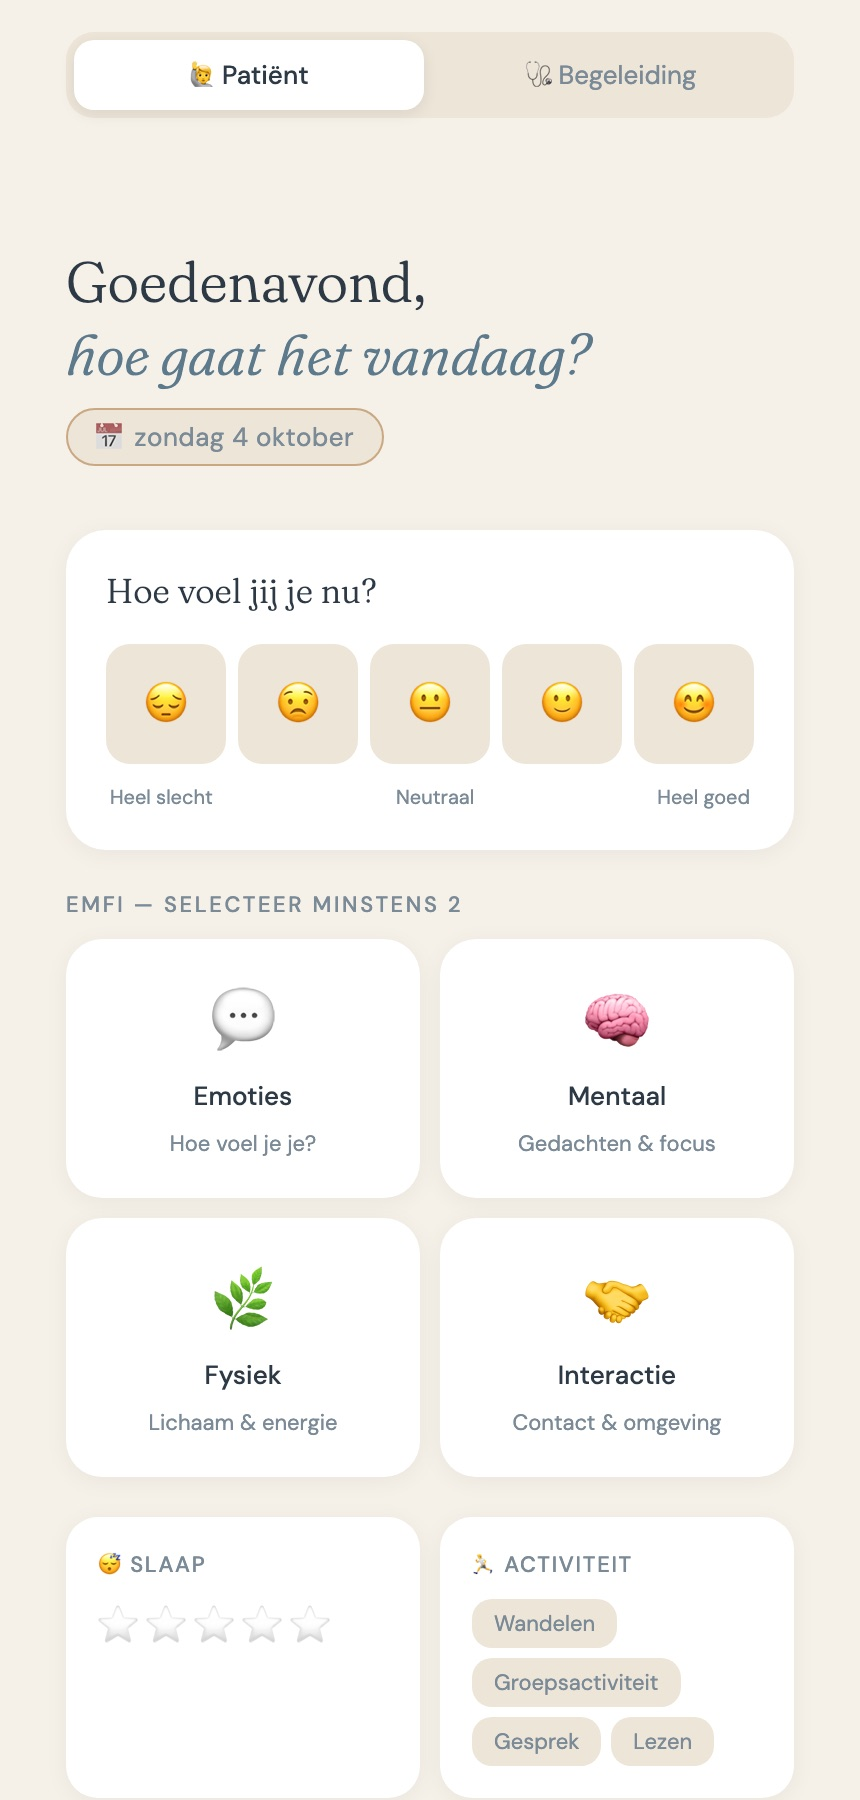
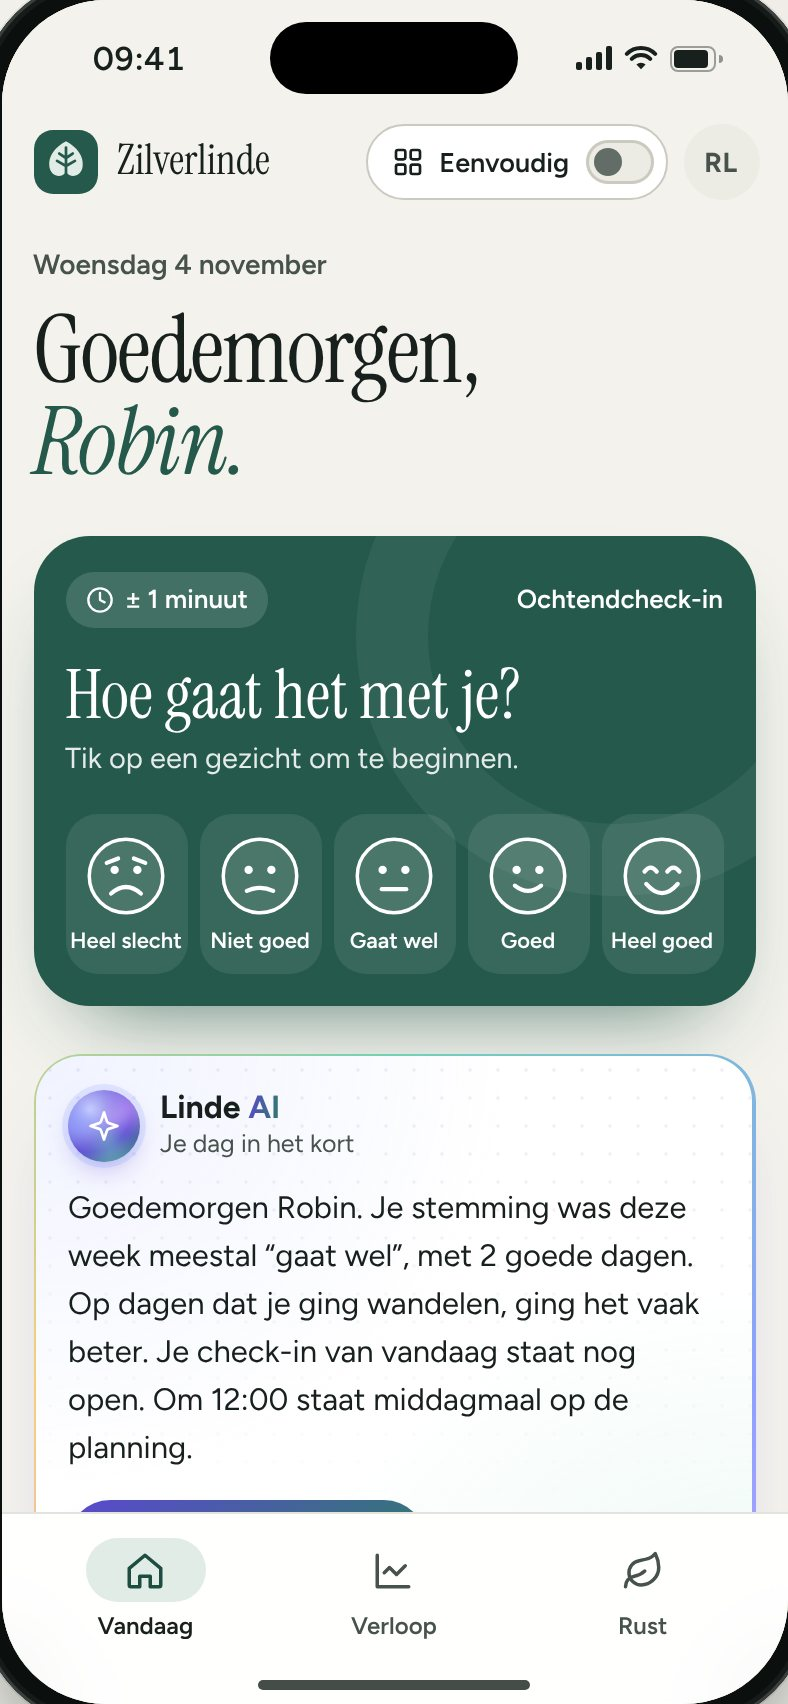
Restyle the EMFI project card after the updated app
The card still showed the old beige app with emoji tiles. It now follows
the new Zilverlinde check-in design: a light sage background with the
app's green and pink glows, the check-in card's ring behind the phone and
a soft Linde AI glow. The number badge is a ring in the four EMFI colours,
the tags use the EMFI tones, the title gets the app's italic green accent
and the CTA turns brand green.

The screenshot is replaced with the new home screen, taken from the app's
own iPhone simulation, and the phone frame copies that device. The old
chips make way for a Linde AI chip and the simple-mode switch, and the
description now covers the four areas and the staff workspace.

Claude-Session: https://claude.ai/code/session_01KvzGXM1zBqA1VLqKrbuMFx

diff --git a/assets/css/style.css b/assets/css/style.css
@@ -1638,7 +1638,7 @@ html:not(.theme-sync) [data-theme="light"] .card:not(.card--link),
   pointer-events: none;
 }
 .project--thesis { --pc-bg: #1D1828; --pc-fg: #F3EDE4; --pc-muted: #B3A9C2; --pc-line: rgba(243, 237, 228, 0.16); }
-.project--emfi   { --pc-bg: #E5D7C1; --pc-fg: #231D18; --pc-muted: #62554A; --pc-line: rgba(35, 29, 24, 0.16); }
+.project--emfi   { --pc-bg: #EBEEE7; --pc-fg: #17201C; --pc-muted: #47524C; --pc-line: #CBCAC0; }
 .project--gids   { --pc-bg: #FBF8F4; --pc-fg: #17162A; --pc-muted: #46435A; --pc-line: #DAD1C3; }
 
 .project-copy {
@@ -1775,45 +1775,189 @@ html:not(.theme-sync) [data-theme="light"] .card:not(.card--link),
   color: #F6F1E9;
 }
 
-/* EMFI — telefoon */
-.project--emfi .project-visual {
-  background: radial-gradient(70% 60% at 60% 50%, rgba(255, 255, 255, 0.55), transparent 70%);
+/* EMFI — in de stijl van de app zelf: licht salie, diep groen, de vier EMFI-kleuren en de gloed van Linde AI */
+.project--emfi {
+  background:
+    radial-gradient(48% 62% at 0% 0%, rgba(36, 89, 75, 0.16), transparent 70%),
+    radial-gradient(42% 56% at 100% 0%, rgba(232, 123, 164, 0.14), transparent 70%),
+    radial-gradient(40% 50% at 62% 112%, rgba(98, 80, 214, 0.1), transparent 70%),
+    var(--pc-bg);
 }
+.project--emfi .project-top { color: #636D68; }
+/* Een ring in vier kwarten: emoties, mentaal, fysiek, interactie */
+.project--emfi .project-num {
+  border: 1.5px solid transparent;
+  background:
+    linear-gradient(var(--pc-bg), var(--pc-bg)) padding-box,
+    conic-gradient(#E87BA4 0 25%, #6250D6 0 50%, #1BAF7A 0 75%, #EDA100 0) border-box;
+}
+.project--emfi .project-title { font-weight: 360; font-variation-settings: "SOFT" 0, "WONK" 0; letter-spacing: -0.035em; }
+.project--emfi .project-title em { color: #24594B; font-variation-settings: "SOFT" 30, "WONK" 1; }
+.project--emfi .tags li { border-color: transparent; background: var(--tone-bg); color: var(--tone); }
+.project--emfi .tags li:nth-child(1) { --tone: #A8346A; --tone-bg: #FCE8EF; }
+.project--emfi .tags li:nth-child(2) { --tone: #4B3BC0; --tone-bg: #EBE8FB; }
+.project--emfi .tags li:nth-child(3) { --tone: #0B7650; --tone-bg: #DCF3E9; }
+.project--emfi .tags li:nth-child(4) { --tone: #8A5A00; --tone-bg: #FCF0D2; }
+.project--emfi .project-cta {
+  background: #24594B;
+  color: #FFFFFF;
+  font-weight: 600;
+  box-shadow: 0 1px 0 rgba(255, 255, 255, 0.16) inset, 0 10px 24px -10px rgba(36, 89, 75, 0.8);
+  transition: transform 0.5s var(--ease-out), background-color 0.3s;
+}
+.project--emfi:hover .project-cta { background: #1B4A3E; }
+
+.project--emfi .project-visual { overflow: visible; }
+/* De ring van de check-in-kaart in de app, groot achter het toestel */
+.project--emfi .project-visual::before {
+  content: '';
+  position: absolute;
+  left: 50%;
+  top: 46%;
+  width: min(88%, 520px);
+  aspect-ratio: 1;
+  border-radius: 50%;
+  border: clamp(28px, 4.5vw, 56px) solid rgba(36, 89, 75, 0.07);
+  transform: translate(-50%, -50%);
+  pointer-events: none;
+}
+/* Zachte gloed in de kleuren van Linde AI */
+.emfi-glow {
+  position: absolute;
+  left: 50%;
+  top: 52%;
+  width: min(60%, 360px);
+  aspect-ratio: 1;
+  border-radius: 50%;
+  background: conic-gradient(from 200deg, #6FD3B5, #8EA0FF, #D7A6FF, #F7A8C8, #F7CF7A, #6FD3B5);
+  filter: blur(46px);
+  opacity: 0.5;
+  transform: translate(-50%, -50%);
+  pointer-events: none;
+}
+/* Toestel zoals de app het zelf simuleert: bijna zwart, dubbele binnenrand, knoppen opzij */
 .phone {
+  --pw: min(46%, 270px);
   position: relative;
-  width: min(46%, 270px);
-  aspect-ratio: 860 / 1800;
-  border-radius: 38px;
-  padding: 9px;
-  background: #1C1714;
-  box-shadow: 0 50px 80px -40px rgba(60, 40, 20, 0.6), inset 0 0 0 1.5px #3B332D;
+  width: var(--pw);
+  aspect-ratio: 417 / 876;
+  border-radius: 42px;
+  padding: 8px;
+  background: #0B0F0D;
+  box-shadow:
+    inset 0 0 0 1.5px #3A403D,
+    inset 0 0 0 4px #161A18,
+    0 50px 80px -40px rgba(16, 24, 20, 0.55),
+    0 24px 44px -26px rgba(16, 24, 20, 0.4);
   transform: rotate(4deg) translateY(10%);
   transition: transform 0.9s var(--ease-out);
 }
+.phone::before,
+.phone::after {
+  content: '';
+  position: absolute;
+  width: 3px;
+  border-radius: 2px;
+  background: #242A27;
+}
+/* Links twee volumeknoppen in één strookje, rechts de zijknop */
+.phone::before { left: -2px; top: 19.5%; height: 15%; background: linear-gradient(#242A27 0 46%, transparent 46% 54%, #242A27 54%); }
+.phone::after { right: -2px; top: 23%; height: 10.5%; }
 .phone img {
   width: 100%;
   height: 100%;
   object-fit: cover;
   object-position: top;
-  border-radius: 30px;
+  border-radius: 34px;
+}
+@supports (width: 1cqw) {
+  .project--emfi .project-visual { container-type: inline-size; }
+  .phone {
+    --pw: min(46cqw, 270px);
+    border-radius: calc(var(--pw) * 0.155);
+    padding: calc(var(--pw) * 0.029);
+  }
+  .phone img { border-radius: calc(var(--pw) * 0.125); }
 }
 .project:hover .phone { transform: rotate(0deg) translateY(4%); }
-.float-chip {
+
+/* Zwevende onderdelen uit de app */
+.emfi-chip {
   position: absolute;
-  padding: 0.75em 1.1em;
-  border-radius: 999px;
-  background: #FFFDF9;
-  color: #231D18;
-  font-size: clamp(0.72rem, 1vw, 0.88rem);
-  font-weight: 500;
+  z-index: 2;
+  display: flex;
+  align-items: center;
   white-space: nowrap;
-  box-shadow: 0 18px 40px -18px rgba(60, 40, 20, 0.45);
+  color: #17201C;
   transition: transform 0.9s var(--ease-out);
 }
-.float-chip--a { left: 8%; top: 24%; transform: rotate(-6deg); }
-.float-chip--b { right: 7%; bottom: 22%; background: #2D5A4E; color: #EAF4F1; transform: rotate(5deg); }
-.project:hover .float-chip--a { transform: rotate(-2deg) translate(-8px, -10px); }
-.project:hover .float-chip--b { transform: rotate(2deg) translate(8px, 10px); }
+.emfi-chip--ai {
+  left: 5%;
+  top: 22%;
+  gap: 11px;
+  padding: 9px 18px 9px 9px;
+  border-radius: 20px;
+  border: 1.5px solid transparent;
+  background:
+    linear-gradient(rgba(255, 255, 255, 0.94), rgba(255, 255, 255, 0.94)) padding-box,
+    conic-gradient(from 160deg, #6FD3B5, #8EA0FF, #D7A6FF, #F7CF7A, #6FD3B5) border-box;
+  box-shadow: 0 18px 40px -20px rgba(98, 80, 214, 0.55);
+  transform: rotate(-5deg);
+}
+.emfi-orb {
+  display: grid;
+  place-items: center;
+  width: 38px;
+  height: 38px;
+  border-radius: 50%;
+  color: #FFFFFF;
+  background: radial-gradient(circle at 30% 28%, #C9D1FF, #6250D6 58%, #2E7D68);
+  box-shadow: 0 0 0 3px rgba(142, 160, 255, 0.2), 0 6px 16px -6px rgba(98, 80, 214, 0.65);
+}
+.emfi-orb svg { width: 19px; height: 19px; fill: none; stroke: currentColor; stroke-width: 1.8; stroke-linejoin: round; }
+.emfi-chip-txt b { display: block; font-size: clamp(0.88rem, 1.1vw, 1rem); font-weight: 600; line-height: 1.2; }
+.emfi-chip-txt b span {
+  background: linear-gradient(100deg, #5B48CF, #2E7D68);
+  -webkit-background-clip: text;
+          background-clip: text;
+  color: transparent;
+  font-weight: 700;
+}
+.emfi-chip-txt small { display: block; font-size: 0.74rem; color: #47524C; line-height: 1.3; }
+.emfi-chip--switch {
+  right: 4%;
+  bottom: 21%;
+  gap: 9px;
+  padding: 8px 8px 8px 14px;
+  border-radius: 999px;
+  background: #FFFFFF;
+  border: 1px solid #CBCAC0;
+  font-size: clamp(0.78rem, 1vw, 0.9rem);
+  font-weight: 600;
+  box-shadow: 0 18px 40px -18px rgba(16, 24, 20, 0.4);
+  transform: rotate(4deg);
+}
+.emfi-chip--switch > svg { width: 17px; height: 17px; fill: none; stroke: currentColor; stroke-width: 2; }
+/* Schakelaar in de aan-stand, zoals in de app */
+.emfi-track {
+  position: relative;
+  width: 36px;
+  height: 22px;
+  border-radius: 999px;
+  background: #24594B;
+}
+.emfi-track::after {
+  content: '';
+  position: absolute;
+  top: 4px;
+  left: 18px;
+  width: 14px;
+  height: 14px;
+  border-radius: 50%;
+  background: #FFFFFF;
+}
+.project:hover .emfi-chip--ai { transform: rotate(-2deg) translate(-8px, -10px); }
+.project:hover .emfi-chip--switch { transform: rotate(1deg) translate(8px, 10px); }
 
 /* Regenbooggids — in de stijl van de site zelf: warm papier, de zesbandige boog, teal */
 .project--gids {
@@ -2543,7 +2687,20 @@ html.has-rail::-webkit-scrollbar { display: none; }
   .project-top { margin-bottom: 0; }
   .browser { width: 92%; margin: 2rem auto; transform: none; }
   .project--gids .project-visual { place-items: center; }
-  .phone { transform: rotate(3deg) translateY(18%); width: 200px; }
+  /* Boven de tekst: het toestel mag niet over de titel lopen */
+  .project--emfi .project-visual { overflow: hidden; }
+  .phone { --pw: 200px; transform: rotate(3deg) translateY(18%); width: var(--pw); border-radius: 31px; padding: 6px; }
+  .phone img { border-radius: 25px; }
+  /* Dicht bij het toestel houden, ook op een brede tablet */
+  .emfi-chip--ai { left: max(3%, calc(50% - 210px)); top: 21%; gap: 8px; padding: 6px 12px 6px 6px; border-radius: 16px; }
+  .emfi-orb { width: 30px; height: 30px; }
+  .emfi-orb svg { width: 15px; height: 15px; }
+  .emfi-chip-txt b { font-size: 0.86rem; }
+  .emfi-chip-txt small { font-size: 0.66rem; }
+  .emfi-chip--switch { right: max(3%, calc(50% - 230px)); bottom: 14%; gap: 7px; padding: 6px 6px 6px 11px; font-size: 0.76rem; }
+  .emfi-chip--switch > svg { width: 14px; height: 14px; }
+  .emfi-track { width: 30px; height: 18px; }
+  .emfi-track::after { top: 3px; left: 15px; width: 12px; height: 12px; }
 
   /* Zonder JavaScript: geen dode menuknop, maar een horizontaal scrollbare linkstrook */
   html:not(.js) .nav-toggle { display: none; }

diff --git a/index.html b/index.html
@@ -449,17 +449,21 @@
           <a class="project project--emfi" href="https://kobec00.github.io/EMFI/" target="_blank" rel="noopener" data-cursor="Open app">
             <div class="project-copy">
               <div class="project-top"><span class="project-num">02</span><span class="project-kind">Web-app · PWA</span></div>
-              <h3 class="project-title">EMFI Check-in App</h3>
-              <p class="project-desc">Een digitale check-in tool voor cliënten in een residentiële zorgsetting. Twee versies: een visueel rijke versie en een toegankelijke variant voor personen met een verstandelijke beperking of autisme.</p>
+              <h3 class="project-title">EMFI <em>Check-in</em> App</h3>
+              <p class="project-desc">Een dagelijkse check-in voor cliënten in een residentiële zorgsetting, rond vier gebieden: emoties, mentaal, fysiek en interactie. Met een eenvoudige modus voor personen met een verstandelijke beperking of autisme, en een werkplek waar begeleiders alles opvolgen.</p>
               <ul class="tags"><li>UX Design</li><li>Toegankelijkheid</li><li>Welzijn</li><li>PWA</li></ul>
               <span class="project-cta">Open de app <svg viewBox="0 0 16 16" aria-hidden="true"><path d="M4.5 11.5l7-7M5.5 4.5h6v6"/></svg></span>
             </div>
             <div class="project-visual" aria-hidden="true">
+              <span class="emfi-glow"></span>
               <div class="phone">
-                <img src="assets/img/emfi.jpg" width="860" height="1800" alt="" loading="lazy" decoding="async">
+                <img src="assets/img/emfi.jpg" width="788" height="1704" alt="" loading="lazy" decoding="async">
               </div>
-              <span class="float-chip float-chip--a">🙂 Hoe voel jij je nu?</span>
-              <span class="float-chip float-chip--b">Toegankelijke modus</span>
+              <span class="emfi-chip emfi-chip--ai">
+                <span class="emfi-orb"><svg viewBox="0 0 24 24"><path d="m12 3-1.9 5.8a2 2 0 0 1-1.3 1.3L3 12l5.8 1.9a2 2 0 0 1 1.3 1.3L12 21l1.9-5.8a2 2 0 0 1 1.3-1.3L21 12l-5.8-1.9a2 2 0 0 1-1.3-1.3Z"/></svg></span>
+                <span class="emfi-chip-txt"><b>Linde <span>AI</span></b><small>Je dag in het kort</small></span>
+              </span>
+              <span class="emfi-chip emfi-chip--switch"><svg viewBox="0 0 24 24"><rect x="3" y="3" width="7" height="7" rx="1.5"/><rect x="14" y="3" width="7" height="7" rx="1.5"/><rect x="3" y="14" width="7" height="7" rx="1.5"/><rect x="14" y="14" width="7" height="7" rx="1.5"/></svg>Eenvoudige modus<span class="emfi-track"></span></span>
             </div>
           </a>
         </article>
